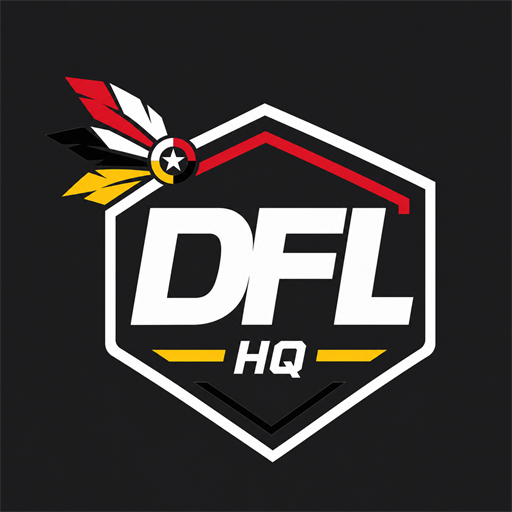
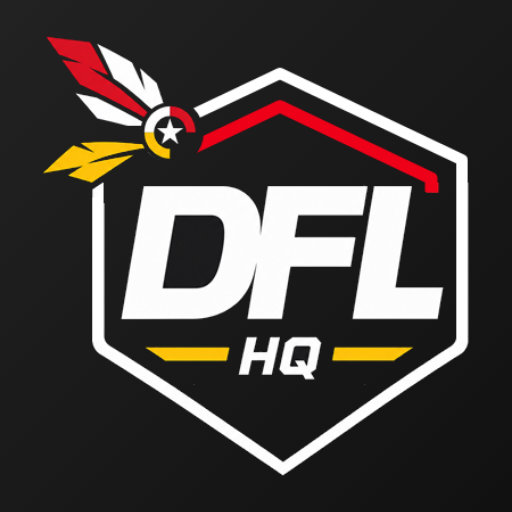
Unify launcher and in-app branding with corrected DFL shield

Changed region(s): [[0.0938, 0.0625, 0.9375, 0.9375], [0.9688, 0.9688, 1.0, 1.0]]

diff --git a/index.html b/index.html
@@ -1,5 +1,5 @@
 <!DOCTYPE html>
-<html lang="en"><head><meta charset="utf-8"><meta name="viewport" content="width=device-width, initial-scale=1, viewport-fit=cover"><meta name="theme-color" content="#0d1117"><meta name="dfl-app-version" content="1.409.0"><title>DFL HQ</title><link rel="manifest" href="manifest.json"><link rel="icon" href="icons/icon-192.png"><link rel="apple-touch-icon" href="icons/apple-touch-icon.png"><meta name="apple-mobile-web-app-capable" content="yes"><meta name="apple-mobile-web-app-status-bar-style" content="black-translucent"><meta name="apple-mobile-web-app-title" content="DFL HQ"><link rel="preload" href="fonts/rajdhani-700.woff2" as="font" type="font/woff2" crossorigin><link rel="stylesheet" href="css/tokens.css"><link rel="stylesheet" href="css/style.css"><link rel="stylesheet" href="css/ui.css"><link rel="stylesheet" href="css/screens.css"><link rel="stylesheet" href="css/marquee.css"><link rel="stylesheet" href="css/stage.css"><link rel="stylesheet" href="css/splash-loading.css"><link rel="stylesheet" href="css/home.css"><link rel="stylesheet" href="css/breaking-trade.css"><link rel="stylesheet" href="css/update-gate.css"><link rel="stylesheet" href="css/app-shared.css?v=1.409.0" data-dfl-nav-neutral="1" data-dfl-stylesheets="css/power-pulse-system.css css/game-day-watch.css css/share-preview.css css/connected-experience.css css/home-editorial.css css/home-broadcast-design.css css/nav-neutral.css css/home-newspaper.css css/home-layout.css css/page-identity.css css/home-broadcast-theme.css css/app-shell.css css/home-league-desk.css css/matchup-interactions.css css/trade-workspace.css css/app-reading.css css/home-broadcast-stories.css css/clubhouse-polish.css css/ui-motion.css css/mobile-polish.css css/detail-polish.css css/receipt-polish.css css/page-system.css css/wall-trade-polish.css css/secondary-page-polish.css css/everyday-premium.css css/stat-presentation.css css/loading-polish.css css/game-day-ready.css css/player-watchlist.css css/home-injury-panel.css"></head><body><!-- The icon gradient. An SVG cannot take a CSS gradient the way text can, so the glyphs reference this by id and its two stops are driven by the palette in css/style.css. aria-hidden and zero-sized: it draws nothing itself and must never be read out or take up space. --><svg width="0" height="0" aria-hidden="true" focusable="false" style="position:absolute;pointer-events:none"><defs><linearGradient id="dfl-ico-grad" x1="0" y1="0" x2="1" y2="1"><stop class="dfl-ico-stop-a" offset="0"/><stop class="dfl-ico-stop-b" offset="1"/></linearGradient><linearGradient id="dfl-gold-grad" x1="0" y1="0" x2="1" y2="1"><stop class="dfl-gold-a" offset="0"/><stop class="dfl-gold-b" offset=".45"/><stop class="dfl-gold-c" offset=".55"/><stop class="dfl-gold-d" offset="1"/></linearGradient><linearGradient id="dfl-steel-grad" x1="0" y1="0" x2="0" y2="1"><stop class="dfl-steel-a" offset="0"/><stop class="dfl-steel-b" offset=".42"/><stop class="dfl-steel-c" offset=".56"/><stop class="dfl-steel-d" offset="1"/></linearGradient></defs></svg>
+<html lang="en"><head><meta charset="utf-8"><meta name="viewport" content="width=device-width, initial-scale=1, viewport-fit=cover"><meta name="theme-color" content="#0d1117"><meta name="dfl-app-version" content="1.410.0"><title>DFL HQ</title><link rel="manifest" href="manifest.json"><link rel="icon" href="icons/favicon-64-1410.png" sizes="64x64"><link rel="apple-touch-icon" href="icons/apple-touch-icon-1410.png" sizes="180x180"><meta name="apple-mobile-web-app-capable" content="yes"><meta name="apple-mobile-web-app-status-bar-style" content="black-translucent"><meta name="apple-mobile-web-app-title" content="DFL HQ"><link rel="preload" href="fonts/rajdhani-700.woff2" as="font" type="font/woff2" crossorigin><link rel="stylesheet" href="css/tokens.css"><link rel="stylesheet" href="css/style.css"><link rel="stylesheet" href="css/ui.css"><link rel="stylesheet" href="css/screens.css"><link rel="stylesheet" href="css/marquee.css"><link rel="stylesheet" href="css/stage.css"><link rel="stylesheet" href="css/splash-loading.css"><link rel="stylesheet" href="css/home.css"><link rel="stylesheet" href="css/breaking-trade.css"><link rel="stylesheet" href="css/update-gate.css"><link rel="stylesheet" href="css/app-shared.css?v=1.410.0" data-dfl-nav-neutral="1" data-dfl-stylesheets="css/power-pulse-system.css css/game-day-watch.css css/share-preview.css css/connected-experience.css css/home-editorial.css css/home-broadcast-design.css css/nav-neutral.css css/home-newspaper.css css/home-layout.css css/page-identity.css css/home-broadcast-theme.css css/app-shell.css css/home-league-desk.css css/matchup-interactions.css css/trade-workspace.css css/app-reading.css css/home-broadcast-stories.css css/clubhouse-polish.css css/ui-motion.css css/mobile-polish.css css/detail-polish.css css/receipt-polish.css css/page-system.css css/wall-trade-polish.css css/secondary-page-polish.css css/everyday-premium.css css/stat-presentation.css css/loading-polish.css css/game-day-ready.css css/player-watchlist.css css/home-injury-panel.css"></head><body><!-- The icon gradient. An SVG cannot take a CSS gradient the way text can, so the glyphs reference this by id and its two stops are driven by the palette in css/style.css. aria-hidden and zero-sized: it draws nothing itself and must never be read out or take up space. --><svg width="0" height="0" aria-hidden="true" focusable="false" style="position:absolute;pointer-events:none"><defs><linearGradient id="dfl-ico-grad" x1="0" y1="0" x2="1" y2="1"><stop class="dfl-ico-stop-a" offset="0"/><stop class="dfl-ico-stop-b" offset="1"/></linearGradient><linearGradient id="dfl-gold-grad" x1="0" y1="0" x2="1" y2="1"><stop class="dfl-gold-a" offset="0"/><stop class="dfl-gold-b" offset=".45"/><stop class="dfl-gold-c" offset=".55"/><stop class="dfl-gold-d" offset="1"/></linearGradient><linearGradient id="dfl-steel-grad" x1="0" y1="0" x2="0" y2="1"><stop class="dfl-steel-a" offset="0"/><stop class="dfl-steel-b" offset=".42"/><stop class="dfl-steel-c" offset=".56"/><stop class="dfl-steel-d" offset="1"/></linearGradient></defs></svg>
 <script>
 /* This must stay inline: an external guard could itself be served from the old
    app cache. It makes the HTML, active worker, and JavaScript release agree
@@ -67,7 +67,7 @@
   } catch (e) {}
 })();
 </script>
-<div id="splash" aria-hidden="true" data-founded="2017"><div class="sp-inner"><img class="sp-mark" src="icons/dfl-seal-heritage-512.webp" alt="" width="512" height="512" fetchpriority="high" decoding="sync"><span class="sp-season" data-sp-season></span><span class="sp-word" data-sp-word>DFL HQ</span><span class="sp-rule" aria-hidden="true"></span><span class="sp-tag" data-sp-tag>The boys. The league. The history.</span></div><span class="sp-sweep" aria-hidden="true"></span></div>
+<div id="splash" aria-hidden="true" data-founded="2017"><div class="sp-inner"><img class="sp-mark" src="icons/dfl-logo-512.webp" alt="" width="512" height="512" fetchpriority="high" decoding="sync"><span class="sp-season" data-sp-season></span><span class="sp-word" data-sp-word>DFL HQ</span><span class="sp-rule" aria-hidden="true"></span><span class="sp-tag" data-sp-tag>The boys. The league. The history.</span></div><span class="sp-sweep" aria-hidden="true"></span></div>
 <script>
 (function () {
   var el = document.getElementById("splash");
@@ -140,7 +140,7 @@
 
 
 
-<header class="topbar"><div class="topbar-inner"><div class="brand-lockup"><img class="brand-mark" src="icons/dfl-seal-heritage-64.webp" alt="" width="30" height="30"><div class="brand-text"><span class="brand-word">DFL <span>HQ</span></span><small class="creed">Draft<i>&#9733;</i>Golf<i>&#9733;</i>Sin<i>&#9733;</i>Fold</small></div></div><div class="topbar-actions"><button id="whoami" class="whoami" type="button" title="Your profile"><span id="whoami-name">…</span><svg class="whoami-chevron" viewBox="0 0 12 12" fill="none" stroke="currentColor" stroke-width="1.5" aria-hidden="true"><path d="m3 4.5 3 3 3-3"/></svg></button></div></div></header><main id="view" class="view" aria-live="polite"><div class="state is-loading">Loading DFL HQ…</div></main><nav class="tabbar" id="tabbar" aria-label="Main"><a href="#/home" data-route="home"><svg class="ico" aria-hidden="true"><use href="#i-home-steel"></use></svg><span>Home</span></a><a href="#/keepers" data-route="keepers"><svg class="ico" aria-hidden="true"><use href="#i-keepers-steel"></use></svg><span>Keepers</span></a><a href="#/golf" data-route="golf"><svg class="ico" aria-hidden="true"><use href="#i-golf-steel"></use></svg><span>Golf</span></a><a href="#/polls" data-route="polls"><svg class="ico" aria-hidden="true"><use href="#i-polls-steel"></use></svg><span>Polls</span></a><button type="button" id="more-btn" class="tabmore" aria-expanded="false" aria-controls="more"><svg class="ico" aria-hidden="true"><use href="#i-more-steel"></use></svg><span>More</span></button></nav><div id="welcome" class="overlay hidden" role="dialog" aria-modal="true" aria-labelledby="welcome-title"><div class="overlay-card"><h2 id="welcome-title">Who are you?</h2><p class="muted">Pick your name. No password, nothing to sign up for.</p><div id="member-list" class="memberlist"></div><div class="welcome-alt"><span class="welcome-or">or</span><button type="button" class="btn ghost small" id="welcome-golf"><svg class="ico" aria-hidden="true"><use href="#i-golf"></use></svg>Here for golf? Join with an event code</button></div><div class="row-end"><button type="button" class="btn ghost small hidden" id="welcome-cancel">Close</button></div></div><div class="overlay-card hidden" id="welcome-join"></div></div><div id="more" class="sheet hidden" role="dialog" aria-modal="true" aria-label="Everything else"><div class="sheet-card"><div class="sheet-head"><strong>Everything else</strong><button type="button" class="btn ghost small" id="more-close">Close</button></div><section id="quick-sleeper-sync" class="quick-sleeper-sync" hidden aria-label="Commissioner Sleeper sync"></section><nav class="quicknav" aria-label="Everything else"><a href="#/profile"><svg class="ico" aria-hidden="true"><use href="#i-profile-steel"></use></svg><span class="qn-label">Profile</span></a><a href="#/calendar"><svg class="ico" aria-hidden="true"><use href="#i-calendar-steel"></use></svg><span class="qn-label">Calendar</span></a><a href="#/history"><svg class="ico" aria-hidden="true"><use href="#i-history-steel"></use></svg><span class="qn-label">History</span></a><a href="#/facts"><svg class="ico" aria-hidden="true"><use href="#i-record-steel"></use></svg><span class="qn-label">DFL Lore</span></a><a href="#/finances"><svg class="ico" aria-hidden="true"><use href="#i-finances-steel"></use></svg><span class="qn-label">Fees</span></a><a href="#/rules"><svg class="ico" aria-hidden="true"><use href="#i-rules-steel"></use></svg><span class="qn-label">Rules</span></a><a href="#/arena"><svg class="ico" aria-hidden="true"><use href="#i-arena-steel"></use></svg><span class="qn-label">Arena</span></a><a href="#/admin"><svg class="ico" aria-hidden="true"><use href="#i-admin-steel"></use></svg><span class="qn-label">Admin</span></a></nav></div></div><div id="install" class="install hidden"></div><div id="update" class="install update hidden"></div><div id="toast" class="toast hidden" role="status" aria-live="polite"></div><script type="module">
+<header class="topbar"><div class="topbar-inner"><div class="brand-lockup"><img class="brand-mark" src="icons/dfl-logo-64.webp" alt="" width="30" height="30"><div class="brand-text"><span class="brand-word">DFL <span>HQ</span></span><small class="creed">Draft<i>&#9733;</i>Golf<i>&#9733;</i>Sin<i>&#9733;</i>Fold</small></div></div><div class="topbar-actions"><button id="whoami" class="whoami" type="button" title="Your profile"><span id="whoami-name">…</span><svg class="whoami-chevron" viewBox="0 0 12 12" fill="none" stroke="currentColor" stroke-width="1.5" aria-hidden="true"><path d="m3 4.5 3 3 3-3"/></svg></button></div></div></header><main id="view" class="view" aria-live="polite"><div class="state is-loading">Loading DFL HQ…</div></main><nav class="tabbar" id="tabbar" aria-label="Main"><a href="#/home" data-route="home"><svg class="ico" aria-hidden="true"><use href="#i-home-steel"></use></svg><span>Home</span></a><a href="#/keepers" data-route="keepers"><svg class="ico" aria-hidden="true"><use href="#i-keepers-steel"></use></svg><span>Keepers</span></a><a href="#/golf" data-route="golf"><svg class="ico" aria-hidden="true"><use href="#i-golf-steel"></use></svg><span>Golf</span></a><a href="#/polls" data-route="polls"><svg class="ico" aria-hidden="true"><use href="#i-polls-steel"></use></svg><span>Polls</span></a><button type="button" id="more-btn" class="tabmore" aria-expanded="false" aria-controls="more"><svg class="ico" aria-hidden="true"><use href="#i-more-steel"></use></svg><span>More</span></button></nav><div id="welcome" class="overlay hidden" role="dialog" aria-modal="true" aria-labelledby="welcome-title"><div class="overlay-card"><h2 id="welcome-title">Who are you?</h2><p class="muted">Pick your name. No password, nothing to sign up for.</p><div id="member-list" class="memberlist"></div><div class="welcome-alt"><span class="welcome-or">or</span><button type="button" class="btn ghost small" id="welcome-golf"><svg class="ico" aria-hidden="true"><use href="#i-golf"></use></svg>Here for golf? Join with an event code</button></div><div class="row-end"><button type="button" class="btn ghost small hidden" id="welcome-cancel">Close</button></div></div><div class="overlay-card hidden" id="welcome-join"></div></div><div id="more" class="sheet hidden" role="dialog" aria-modal="true" aria-label="Everything else"><div class="sheet-card"><div class="sheet-head"><strong>Everything else</strong><button type="button" class="btn ghost small" id="more-close">Close</button></div><section id="quick-sleeper-sync" class="quick-sleeper-sync" hidden aria-label="Commissioner Sleeper sync"></section><nav class="quicknav" aria-label="Everything else"><a href="#/profile"><svg class="ico" aria-hidden="true"><use href="#i-profile-steel"></use></svg><span class="qn-label">Profile</span></a><a href="#/calendar"><svg class="ico" aria-hidden="true"><use href="#i-calendar-steel"></use></svg><span class="qn-label">Calendar</span></a><a href="#/history"><svg class="ico" aria-hidden="true"><use href="#i-history-steel"></use></svg><span class="qn-label">History</span></a><a href="#/facts"><svg class="ico" aria-hidden="true"><use href="#i-record-steel"></use></svg><span class="qn-label">DFL Lore</span></a><a href="#/finances"><svg class="ico" aria-hidden="true"><use href="#i-finances-steel"></use></svg><span class="qn-label">Fees</span></a><a href="#/rules"><svg class="ico" aria-hidden="true"><use href="#i-rules-steel"></use></svg><span class="qn-label">Rules</span></a><a href="#/arena"><svg class="ico" aria-hidden="true"><use href="#i-arena-steel"></use></svg><span class="qn-label">Arena</span></a><a href="#/admin"><svg class="ico" aria-hidden="true"><use href="#i-admin-steel"></use></svg><span class="qn-label">Admin</span></a></nav></div></div><div id="install" class="install hidden"></div><div id="update" class="install update hidden"></div><div id="toast" class="toast hidden" role="status" aria-live="polite"></div><script type="module">
 try {
   await window.dflShellReady;
   await import("./js/app.js");

diff --git a/sw.js b/sw.js
@@ -1,11 +1,11 @@
 // DFL HQ service worker
-const CACHE_NAME = "dfl-hq-v1.409.0";
+const CACHE_NAME = "dfl-hq-v1.410.0";
 const APP_CACHE_PREFIX = "dfl-hq-v";
 const CDN_HOSTS = new Set(["cdn.jsdelivr.net","fonts.googleapis.com","fonts.gstatic.com","a.espncdn.com"]);
 const APP_SHELL = [
   "./js/arena/stadium-orientation.js","./js/arena/stadium-motion.js","./js/arena/racer-kit-model.js","./js/arena/racer-kit-art.js","./js/arena/racer-kit-editor.js",
   "./js/pages/arena-stadium.js","./js/pages/arena-viewer.js","./js/arena/stadium-data.js","./js/arena/stadium-model.js","./js/arena/stadium-renderer.js","./css/stadium-arena.css",
-  "./css/app-shared.css?v=1.409.0","./js/trade-offer-search.js","./js/trade-offer-catalog.js","./js/workers/trade-offers.js","./js/tab-scroll-cues.js",
+  "./css/app-shared.css?v=1.410.0","./js/trade-offer-search.js","./js/trade-offer-catalog.js","./js/workers/trade-offers.js","./js/tab-scroll-cues.js",
   "./js/player-watchlist-data.js","./js/player-watchlist-model.js","./js/watchlist-alerts.js","./js/player-watchlist-ui.js",
   "./js/loading-presentation.js",
   "./js/player-form.js",
@@ -19,7 +19,7 @@ const APP_SHELL = [
   "./js/trade-routing.js","./js/trade-workspace.js","./js/trade-workspace-ui.js",
 
 
-  "./assets/home-broadcast-stadium.webp","./assets/dfl-daily-hero.webp","./assets/dfl-daily-crest.webp","./assets/dfl-daily-splatter.webp","./assets/dfl-daily-champion.webp","./assets/dfl-daily-chip-eater.webp","./assets/dfl-daily-archive.webp","./assets/dfl-daily-rivalry.webp","./assets/dfl-daily-paper.webp","./assets/dfl-daily-wordmark.webp","./assets/dfl-daily-wordmark-medicine.webp","./assets/dfl-daily-ten.webp","./assets/dfl-daily-headline.webp","./icons/dfl-seal-heritage-512.webp","./js/home-presentation.js",
+  "./assets/home-broadcast-stadium.webp","./assets/dfl-daily-hero.webp","./assets/dfl-daily-splatter.webp","./assets/dfl-daily-champion.webp","./assets/dfl-daily-chip-eater.webp","./assets/dfl-daily-archive.webp","./assets/dfl-daily-rivalry.webp","./assets/dfl-daily-paper.webp","./assets/dfl-daily-wordmark.webp","./assets/dfl-daily-wordmark-medicine.webp","./assets/dfl-daily-ten.webp","./assets/dfl-daily-headline.webp","./js/home-presentation.js",
   "./assets/anniversary-ten.webp",
   "./js/league-results.js","./js/game-day-league.js","./js/game-day-dom.js","./js/game-day-panels.js","./js/game-day-moments.js","./js/game-day-moments-model.js",
   "./js/player-card-actions.js","./js/player-card.js","./js/player-card-model.js","./js/player-card-data.js","./js/view-memory.js","./js/trade-draft.js","./js/trade-package-limits.js","./js/trade-offer-recheck.js","./js/league-health.js","./js/rivalry-story.js","./js/rivalry-story-model.js","./js/performance-policy.js",
@@ -123,7 +123,7 @@ const APP_SHELL = [
   "./js/service-worker.js","./js/pickem-state.js","./js/golf-event-status.js","./js/pages/calendar.js",
   "./","./index.html","./manifest.json","./css/stakes.css",
   "./css/tokens.css","./css/style.css","./css/ui.css","./css/screens.css","./css/sportsbook.css","./js/sportsbook-slip.js","./js/sportsbook-pickem.js","./js/sleeper-prop-import.js","./js/sleeper-prop-import-ui.js","./css/golf.css","./css/home.css","./css/breaking-trade.css","./css/update-gate.css",
-  "./js/live-score-refresh.js","./js/score-freshness.js","./js/game-day-readiness.js","./js/lineup-alert-model.js","./js/waiver-coach.js","./js/advice-receipts.js","./js/advice-receipts-data.js","./js/advice-receipts-ui.js","./css/advice-receipts.css?v=1.409.0","./js/waiver-history-data.js","./js/waiver-intelligence.js","./js/waiver-intelligence-ui.js","./js/roster-coach-data.js","./js/roster-coach-ui.js","./js/matchup-targets.js","./js/weekly-roasts.js",
+  "./js/live-score-refresh.js","./js/score-freshness.js","./js/game-day-readiness.js","./js/lineup-alert-model.js","./js/waiver-coach.js","./js/advice-receipts.js","./js/advice-receipts-data.js","./js/advice-receipts-ui.js","./css/advice-receipts.css?v=1.410.0","./js/waiver-history-data.js","./js/waiver-intelligence.js","./js/waiver-intelligence-ui.js","./js/roster-coach-data.js","./js/roster-coach-ui.js","./js/matchup-targets.js","./js/weekly-roasts.js",
   "./js/config.js","./js/app.js","./js/season-nav.js","./js/router.js","./js/connection-recovery.js","./js/ui.js","./js/store.js","./js/supabase.js","./js/members.js","./js/member-preview.js","./js/member-lock.js",
   "./js/app-diagnostics.js","./js/performance.js","./js/performance-findings.js","./js/pages/admin_performance.js","./js/pages/admin_operations.js","./js/breaking-trade.js","./js/custom-alerts.js","./js/league-state.js","./js/league-stakes.js","./js/weekly-briefing.js","./js/pages/stakes.js","./js/sleeper-sync-schedule.js",
   "./js/notifications.js","./js/notification-core.js","./js/notify-nudge.js","./js/profile-notifications.js","./js/weekly-outlook.js","./js/trade-desk.js","./js/pages/trade.js","./js/player-history.js","./js/season-outlook.js","./js/league-trajectory.js","./js/trend-panel.js","./js/weekly-outlook-panel.js","./css/weekly-outlook.css","./js/pages/notifications.js","./js/pages/admin_notifications.js","./css/notifications.css","./icons/badge-96.png",
@@ -135,8 +135,8 @@ const APP_SHELL = [
      brand mark ARE drawn on first paint and were not cached at all. */
   /* Update-gate artwork is fetched only if the gate is actually shown. The
      anniversary uses its optimized WebP directly from Home instead. */
-  "./icons/dfl-seal-heritage-512.webp","./icons/dfl-seal-heritage-64.webp",
-  "./icons/app-192.png","./icons/apple-touch-icon.png"
+  "./icons/dfl-logo-512.webp","./icons/dfl-logo-64.webp",
+  "./icons/app-192.png","./icons/app-192-1410.png","./icons/dfl-logo-tile-256.webp","./icons/apple-touch-icon-1410.png","./icons/favicon-64-1410.png"
 ];
 const SHELL_URLS = new Set(APP_SHELL.map(path => new URL(path, self.registration.scope).href));
 self.addEventListener('message',event=>{
@@ -242,7 +242,7 @@ self.addEventListener("push", event => {
   */
   event.waitUntil(self.registration.showNotification(data.title || "DFL HQ", {
     body: data.body || "You have a new league update.",
-    icon: data.icon || "icons/app-192.png",
+    icon: data.icon || "icons/app-192-1410.png",
     badge: "icons/badge-96.png",
     tag: data.messageId ? `dfl-notification-${data.messageId}` : "dfl-notification",
     renotify: data.category !== "wall" && data.category !== "matchup_moments",

diff --git a/js/share.js b/js/share.js
@@ -42,11 +42,11 @@ const crest = typeof Image === "function" ? new Image() : null;
 let crestReady = false;
 if (crest) {
   crest.onload = () => { crestReady = true; };
-  crest.src = new URL("../icons/crest-512.webp", import.meta.url).href;
+  crest.src = new URL("../icons/dfl-logo-512.webp", import.meta.url).href;
 }
 export const crestImage = () => (crestReady ? crest : null);
 
-/* The round heritage seal is the quieter mark used behind editorial cards.
+/* The shield on its graphite field stays legible on light and dark share cards.
    It is preloaded for the same reason as the crest: a share tap cannot wait
    for an image request without losing Safari's user gesture. */
 const seal = typeof Image === "function" ? new Image() : null;
@@ -57,7 +57,7 @@ if (seal) {
   const timeout = setTimeout(() => resolveSeal(), 12000);
   seal.onload = () => { sealReady = true; clearTimeout(timeout); resolveSeal(); };
   seal.onerror = () => { clearTimeout(timeout); resolveSeal(); };
-  seal.src = new URL("../icons/dfl-seal-512.webp", import.meta.url).href;
+  seal.src = new URL("../icons/dfl-logo-tile-256.webp", import.meta.url).href;
 }
 export const sealImage = () => (sealReady ? seal : null);
 

diff --git a/js/pages/home.js b/js/pages/home.js
@@ -890,7 +890,7 @@ function wireHomeLeagueFeed(root) {
 function identity(leagues, members, logo) {
   const number = new Date().getFullYear() - LEAGUE_FOUNDED + 1;
   return `<section class="hero">
-    <img class="hero-crest ${logo ? "" : "is-crest"}" src="${esc(logo || "icons/crest-512.webp")}" alt="DFL league crest" ${logo ? "" : `width="512" height="341"`}>
+    <img class="hero-crest ${logo ? "" : "is-crest"}" src="${esc(logo || "icons/dfl-logo-512.webp")}" alt="DFL league crest" ${logo ? "" : `width="512" height="512"`}>
     ${canEdit() ? `<div class="crest-tools"><input type="file" id="logo-file" accept="image/*" class="hidden"><button class="btn ghost small" id="logo-pick">Change crest</button>${logo ? `<button class="btn ghost small" id="logo-reset">Use default</button>` : ""}</div>` : ""}
     <p class="hero-creed">Forged by sinners.<br>Fueled by rivalries.<br>Defined by champions.</p>
     <p class="hero-line">${esc(ordinal(number))} season${members.length ? ` · ${members.length} owners` : ""}</p>

diff --git a/mocks/weekly-reads-live.html b/mocks/weekly-reads-live.html
@@ -17,12 +17,12 @@
   <header class="topbar">
     <div class="topbar-inner">
       <div class="brand-lockup">
-        <img class="brand-mark" src="../icons/dfl-seal-heritage-64.webp" alt="" width="30" height="30">
+        <img class="brand-mark" src="../icons/dfl-logo-64.webp" alt="" width="30" height="30">
         <div class="brand-text"><span class="brand-word">DFL <span>HQ</span></span><small class="creed">Draft<i>★</i>Golf<i>★</i>Sin<i>★</i>Fold</small></div>
       </div>
       <div class="topbar-actions">
         <button class="mock-bell" type="button" aria-label="Notifications"><span aria-hidden="true">4</span></button>
-        <button class="whoami" type="button"><img class="whoami-photo" src="../icons/dfl-seal-heritage-64.webp" alt=""><span>Martin77</span></button>
+        <button class="whoami" type="button"><img class="whoami-photo" src="../icons/dfl-logo-64.webp" alt=""><span>Martin77</span></button>
       </div>
     </div>
   </header>

diff --git a/css/ui.css b/css/ui.css
@@ -433,7 +433,7 @@ h3 {
   text-align: center;
 }
 /* Reserved before anything animates, so no stage can shift the one after it. */
-.sp-mark { width: min(66vw, 380px); height: auto; opacity: 0; border-radius: 50%; }
+.sp-mark { width: min(66vw, 380px); height: auto; opacity: 0; border-radius: 0; }
 /*
   FIXED INKS, NOT THE THEME'S - the same rule the shared cards already
   follow, and for the same reason.
@@ -935,8 +935,8 @@ select, input[type="text"], input[type="number"], input[type="date"], textarea {
   top: 50%; right: -14%;
   width: 62%; aspect-ratio: 1 / 1;
   transform: translateY(-50%);
-  background: #000 url("../icons/dfl-seal-heritage-512.webp") center / contain no-repeat;
-  border-radius: 50%;
+  background: url("../icons/dfl-logo-512.webp") center / contain no-repeat;
+  border-radius: 0;
   opacity: .07;
   pointer-events: none;                 /* never interactive, ever */
   z-index: 0;

diff --git a/css/app-shared.css b/css/app-shared.css
@@ -3144,7 +3144,7 @@ body:has(#view[data-route="home"]) {
 .page-identity::after {
   content: ''; position: absolute; right: -34px; bottom: -56px;
   width: 232px; height: 232px; opacity: .07;
-  background: url('../icons/dfl-seal-64.webp') center / contain no-repeat;
+  background: url('../icons/dfl-logo-64.webp') center / contain no-repeat;
   pointer-events: none; z-index: -1;
 }
 .tb-head-row.page-identity { padding: 20px; margin-bottom: 16px; }
@@ -4062,6 +4062,10 @@ body .breaking-trade-beacon { width:26px; }
 
 /* Dots are always visible now; their old focus-reveal plate is obsolete. */
 #home-wrap .bx-dots:focus-within { background:transparent; }
+
+/* Keep the white shield legible on the light paper without adding a box. */
+#home-wrap .bx-with-crest .bx-editorial-crest,
+#home-wrap > .hero .hero-crest.is-crest { filter:drop-shadow(0 0 1px #171717); }
 
 
 /* Source: css/clubhouse-polish.css */

diff --git a/js/broadcast-stage.js b/js/broadcast-stage.js
@@ -416,7 +416,7 @@ export function renderItem(item, { editorial = false } = {}) {
   const artKind = illustratedChampion ? item.variant === "chip" ? "chip" : "champion" : "logo";
   const art = illustratedChampion
     ? artKind === "chip" ? "assets/dfl-daily-chip-eater.webp" : item.image || "assets/dfl-daily-champion.webp"
-    : "assets/dfl-daily-crest.webp";
+    : "icons/dfl-logo-512.webp";
   const inner = illustrated
     ? `<span class="bx-editorial-illustration" aria-hidden="true"><span class="bx-editorial-subject"><img class="${artKind === "logo" ? "bx-editorial-crest" : "bx-editorial-portrait"}" src="${esc(art)}" alt="" decoding="async"></span></span><div class="bx-editorial-copy">${copy}</div>`
     : media + copy;

diff --git a/js/config.js b/js/config.js
@@ -49,7 +49,7 @@ export const FIRST_SYNCED_SEASON = 2019;
 export const LEGACY_SEASONS = Math.max(0, FIRST_SYNCED_SEASON - LEAGUE_FOUNDED);
 export const dflSeasonCount = (syncedSeasons = 0) => Math.max(0, Number(syncedSeasons) || 0) + LEGACY_SEASONS;
 const META_VERSION = globalThis.document?.querySelector('meta[name="dfl-app-version"]')?.content || "0";
-const RELEASE_FLOOR = "1.409.0";
+const RELEASE_FLOOR = "1.410.0";
 const newer = (a,b) => { const x=String(a).split(".").map(Number),y=String(b).split(".").map(Number); for(let i=0;i<Math.max(x.length,y.length);i++){ const d=(x[i]||0)-(y[i]||0); if(d)return d>0?a:b; } return a; };
 export const APP_VERSION = newer(META_VERSION, RELEASE_FLOOR);
 

diff --git a/css/splash-loading.css b/css/splash-loading.css
@@ -1,14 +1,14 @@
 /* DFL HQ splash/header polish — v1.109.9
    Pure presentation. The app still boots underneath the splash exactly as before. */
 
-/* Give the uploaded seal a little more presence without changing topbar height. */
+/* Give the DFL shield a little more presence without changing topbar height. */
 .brand-mark {
   width: 36px !important;
   height: 36px !important;
   flex: 0 0 36px !important;
-  border-radius: 50% !important;
+  border-radius: 0 !important;
   object-fit: contain;
-  background: #000;
+  background: transparent;
 }
 @media (max-width: 380px) {
   .brand-text .creed { display: none; }

diff --git a/js/home-clubhouse.spec.js b/js/home-clubhouse.spec.js
@@ -200,7 +200,7 @@ describe("Home weekly report", () => {
     const dashboard = clubhouseWeekCard(clubhouseView({ analysis: finishedAnalysis, lore: currentLore, members, meSleeperId: "u1", weekly }));
     expect(dashboard).toContain("WIN SECURED");
     expect(dashboard).toContain("20.00");
-    expect(dashboard).toContain("icons/crest-512.webp");
+    expect(dashboard).toContain("icons/dfl-logo-512.webp");
   });
 
   it("uses the synced Sleeper scoreboard as the weekly report score", () => {

diff --git a/js/home-clubhouse.js b/js/home-clubhouse.js
@@ -378,7 +378,7 @@ export function clubhouseWeekCard(view) {
         ? (final ? "WIN SECURED" : "IN CONTROL")
         : (final ? "TOUGH LOSS" : "WORK TO DO");
   return `<article class="hd-week-card">
-    <img class="hd-ghost-crest" src="icons/crest-512.webp" alt="" aria-hidden="true">
+    <img class="hd-ghost-crest" src="icons/dfl-logo-512.webp" alt="" aria-hidden="true">
     <div class="hd-week-copy">
       <small>${esc(story.label || "YOUR WEEK")}</small>
       <h2>${esc(title)}</h2>
